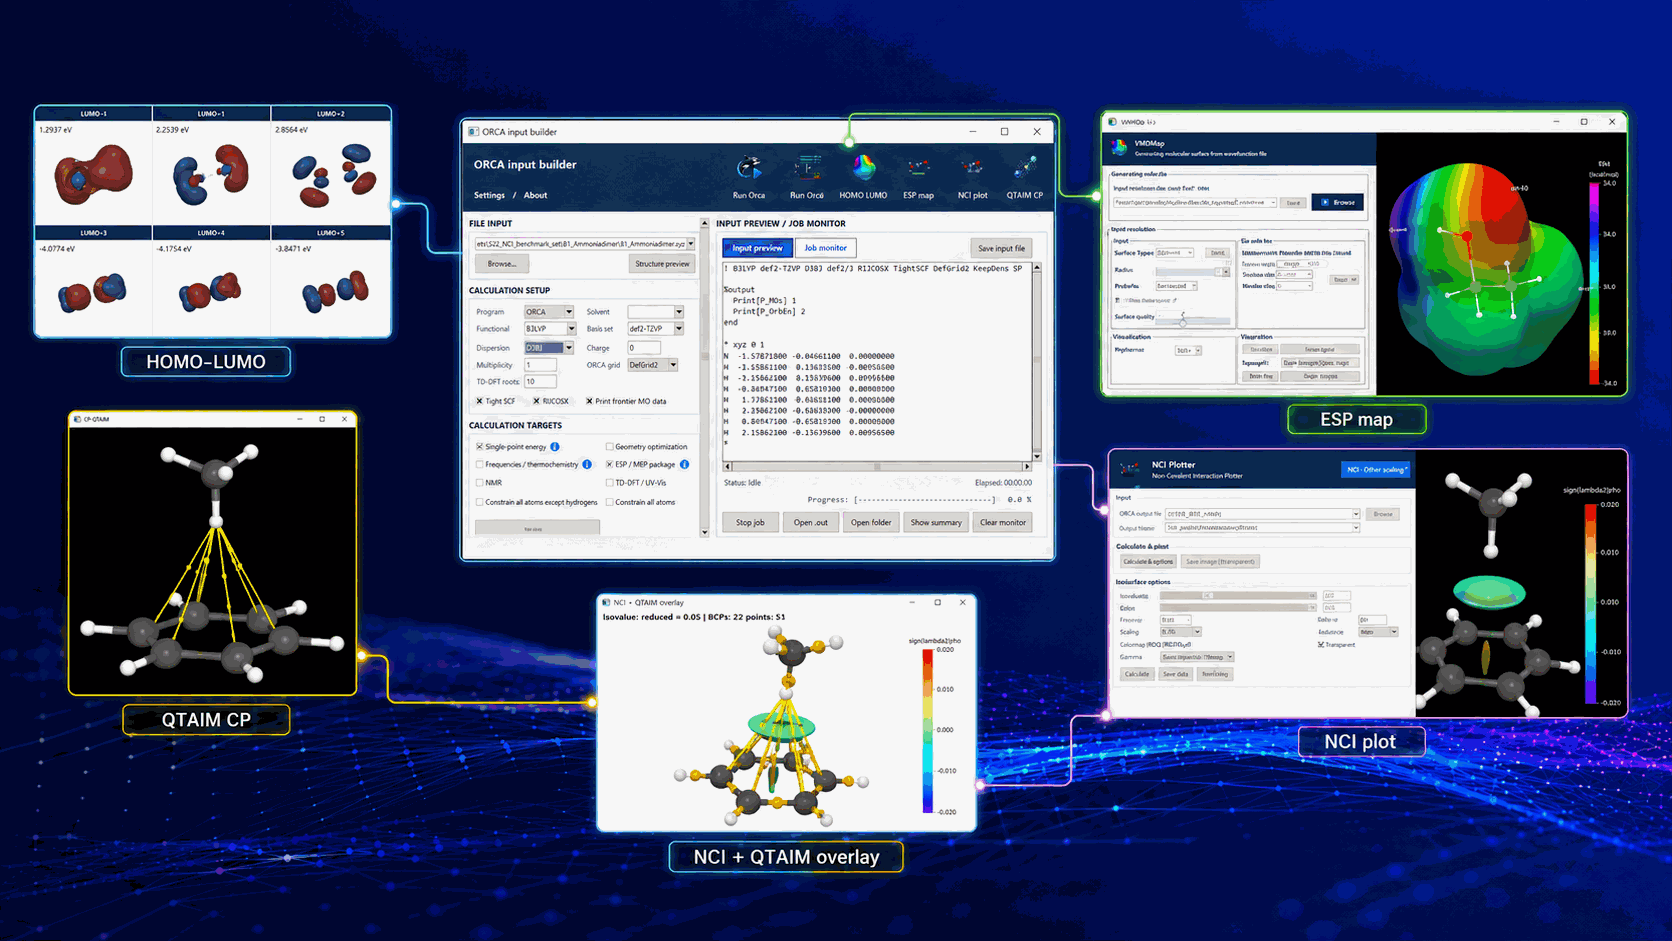
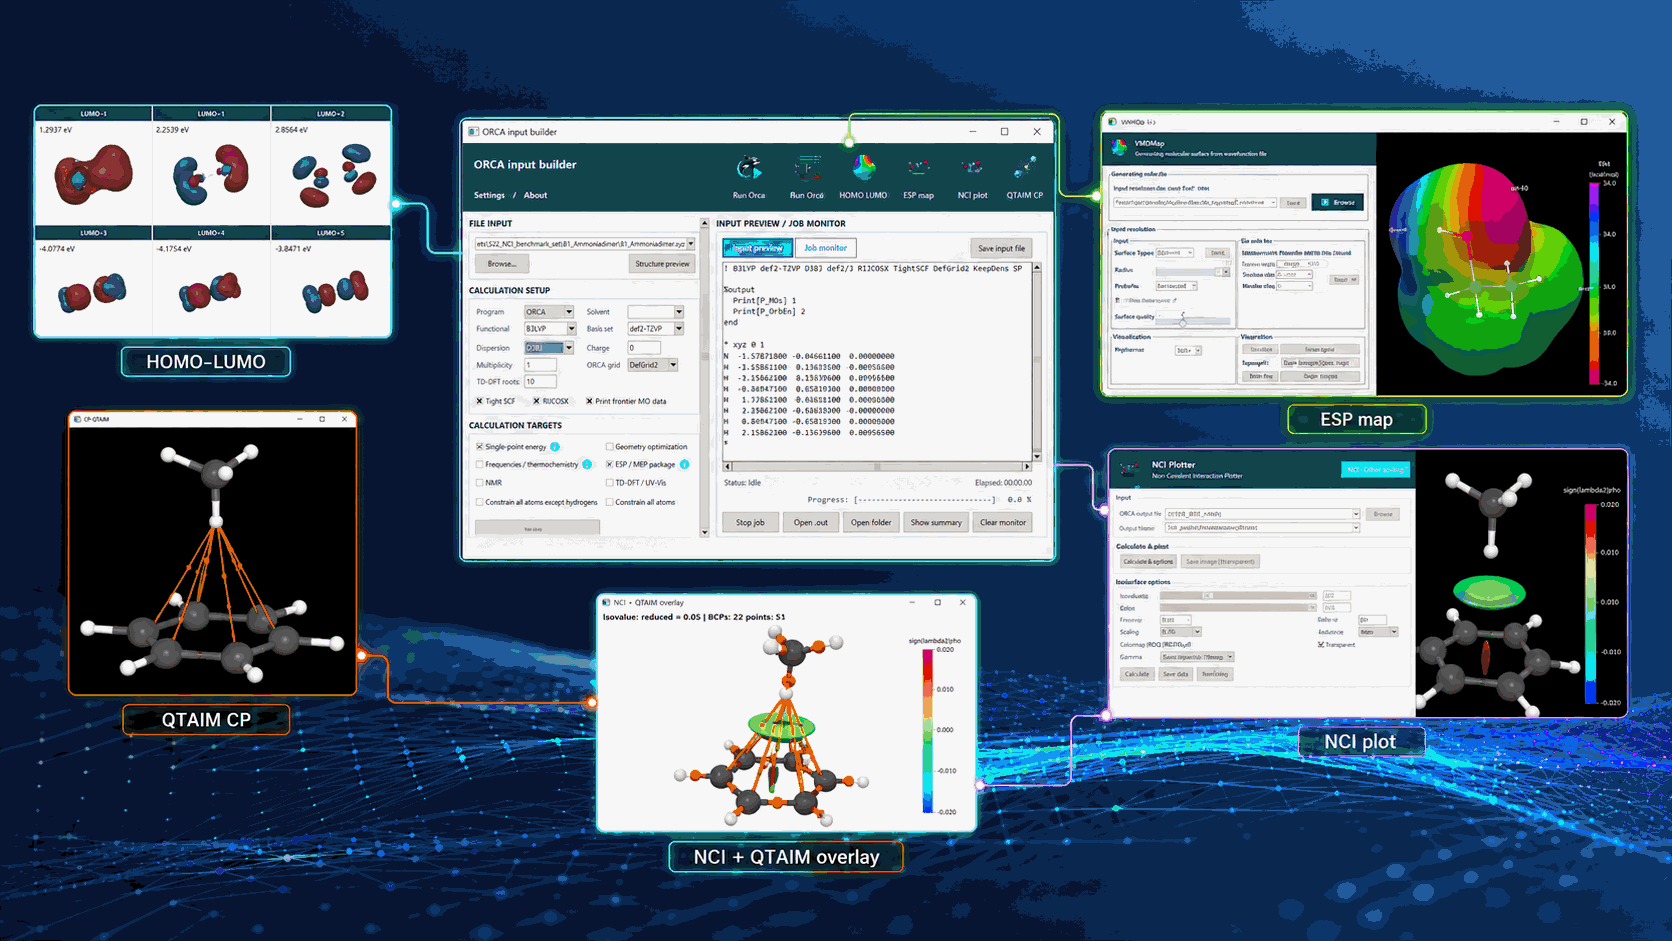
Reduce ORCA builder file search freezes

diff --git a/tools/Orca_input/orca_input.py b/tools/Orca_input/orca_input.py
@@ -78,6 +78,9 @@ MONITOR_POLL_DELAY_MS = 1000
 MONITOR_CATCHUP_DELAY_MS = 50
 MONITOR_BUFFER_MAX_CHARS = 750000
 MONITOR_BUFFER_TRIM_TO_CHARS = 600000
+FILE_SEARCH_MAX_SECONDS = 1.5
+FILE_SEARCH_MAX_MATCHES = 80
+FILE_SEARCH_MAX_DEPTH = 4
 GNOME_ORCA_REJECTION_MARKERS = (
     "EVENT MANAGER",
     "PYATSPI",
@@ -2239,6 +2242,46 @@ def split_cli_args(arg_string: str) -> List[str]:
         return text.split()
 
 
+def bounded_find_files(
+    root: Path,
+    names: Optional[Tuple[str, ...]] = None,
+    pattern_suffix: str = "",
+    max_depth: int = FILE_SEARCH_MAX_DEPTH,
+    max_matches: int = FILE_SEARCH_MAX_MATCHES,
+    max_seconds: float = FILE_SEARCH_MAX_SECONDS,
+) -> List[Path]:
+    root = Path(root)
+    if not root.is_dir():
+        return []
+    expected = {name.lower() for name in (names or ())}
+    suffix = pattern_suffix.lower()
+    start = time.monotonic()
+    matches: List[Path] = []
+    root_depth = len(root.parts)
+    for current, dirs, files in os.walk(root, followlinks=False):
+        if time.monotonic() - start > max_seconds or len(matches) >= max_matches:
+            break
+        current_path = Path(current)
+        depth = max(0, len(current_path.parts) - root_depth)
+        if depth >= max_depth:
+            dirs[:] = []
+        else:
+            dirs[:] = [
+                item for item in dirs
+                if item not in {"$Recycle.Bin", "System Volume Information", "__pycache__", ".git"}
+            ]
+        for filename in files:
+            lower = filename.lower()
+            if expected and lower not in expected:
+                continue
+            if suffix and not lower.endswith(suffix):
+                continue
+            matches.append(current_path / filename)
+            if len(matches) >= max_matches:
+                break
+    return matches
+
+
 def find_orca_candidates() -> List[str]:
     candidates: List[str] = []
     seen = set()
@@ -2303,10 +2346,8 @@ def find_orca_candidates() -> List[str]:
         if direct2.exists():
             add(str(direct2))
         try:
-            for executable_name in ("orca.exe", "orca"):
-                for p in root.rglob(executable_name):
-                    add(str(p))
-                    break
+            for p in bounded_find_files(root, names=("orca.exe", "orca")):
+                add(str(p))
         except Exception:
             pass
 
@@ -2373,10 +2414,8 @@ def find_orca_candidates_with_rejections() -> Tuple[List[str], List[Tuple[str, s
             if direct.exists():
                 add(str(direct))
         try:
-            for executable_name in ("orca.exe", "orca"):
-                for p in root.rglob(executable_name):
-                    add(str(p))
-                    break
+            for p in bounded_find_files(root, names=("orca.exe", "orca")):
+                add(str(p))
         except Exception:
             pass
 
@@ -3909,12 +3948,18 @@ class App(tk.Tk):
             if same_stem.is_file():
                 candidates.append((1, same_stem))
             try:
-                candidates.extend((2, path) for path in source_dir.rglob(f"{source.stem}.out") if path.is_file())
+                candidates.extend(
+                    (2, path) for path in bounded_find_files(source_dir, names=(f"{source.stem}.out",))
+                    if path.is_file()
+                )
             except Exception:
                 pass
 
         try:
-            candidates.extend((3, path) for path in source_dir.rglob("*.out") if path.is_file())
+            candidates.extend(
+                (3, path) for path in bounded_find_files(source_dir, pattern_suffix=".out")
+                if path.is_file()
+            )
         except Exception:
             pass
         return candidates
@@ -5017,12 +5062,18 @@ class App(tk.Tk):
             if same_stem.is_file():
                 candidates.append((1, same_stem))
             try:
-                candidates.extend((2, path) for path in source_dir.rglob(f"{source.stem}_summary.txt") if path.is_file())
+                candidates.extend(
+                    (2, path) for path in bounded_find_files(source_dir, names=(f"{source.stem}_summary.txt",))
+                    if path.is_file()
+                )
             except Exception:
                 pass
 
         try:
-            candidates.extend((3, path) for path in source_dir.rglob("*_summary.txt") if path.is_file())
+            candidates.extend(
+                (3, path) for path in bounded_find_files(source_dir, pattern_suffix="_summary.txt")
+                if path.is_file()
+            )
         except Exception:
             pass
         return candidates